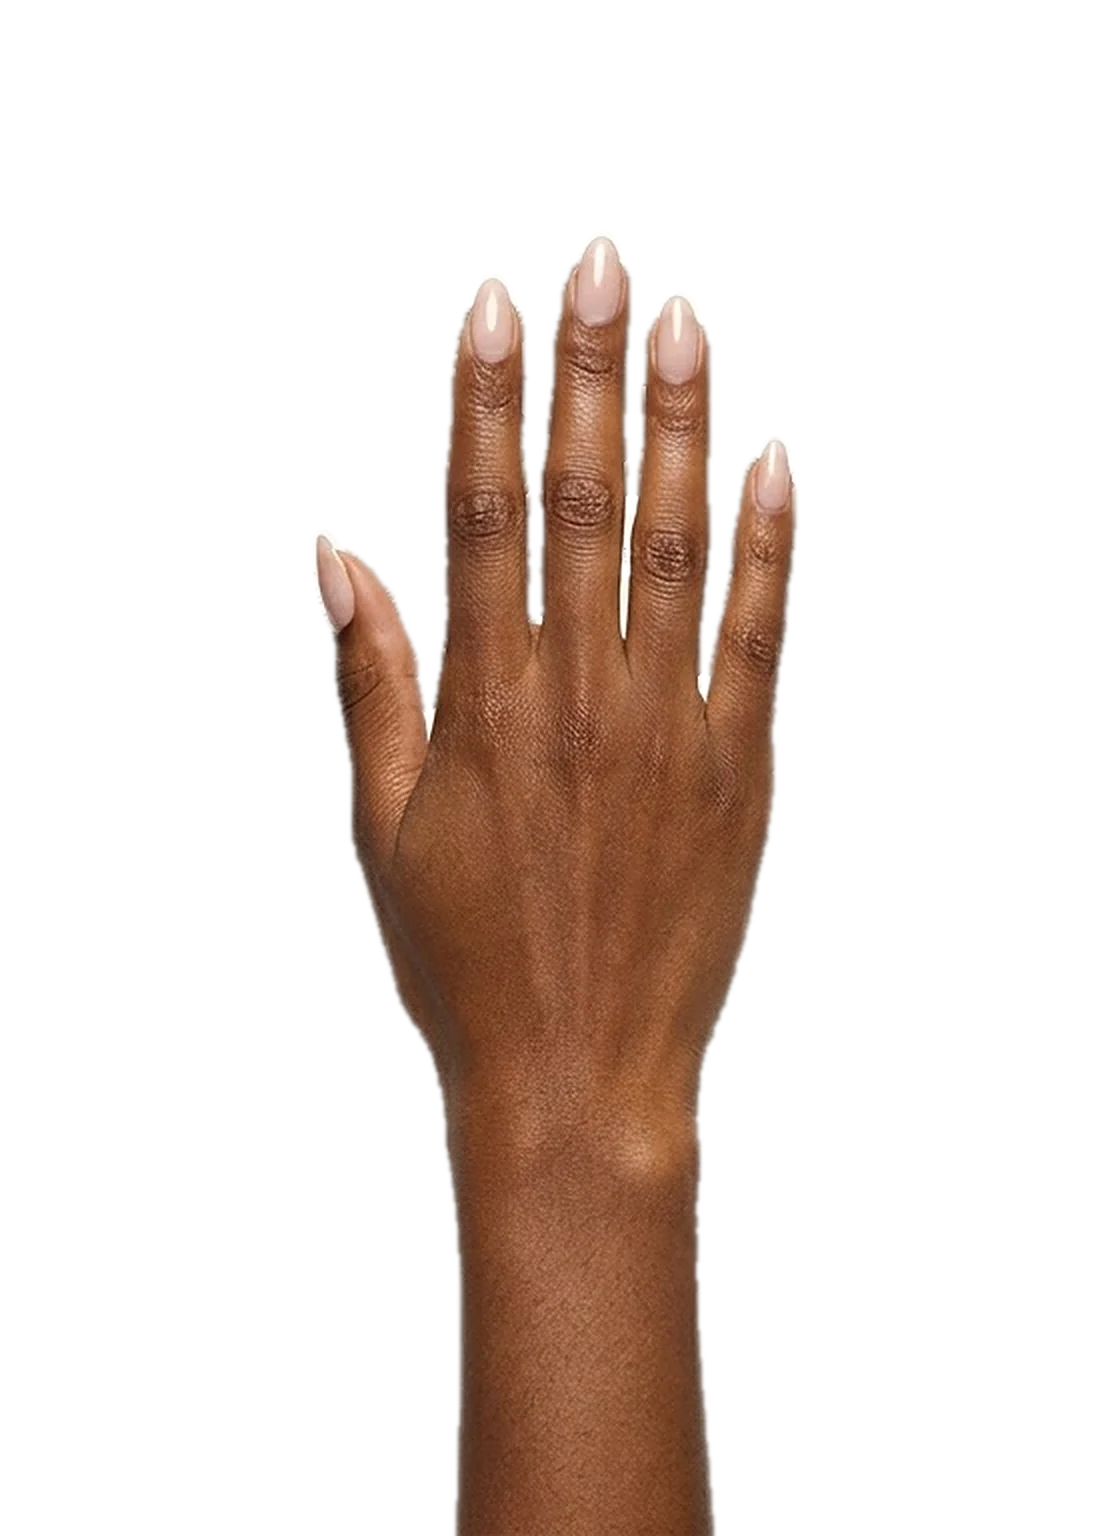
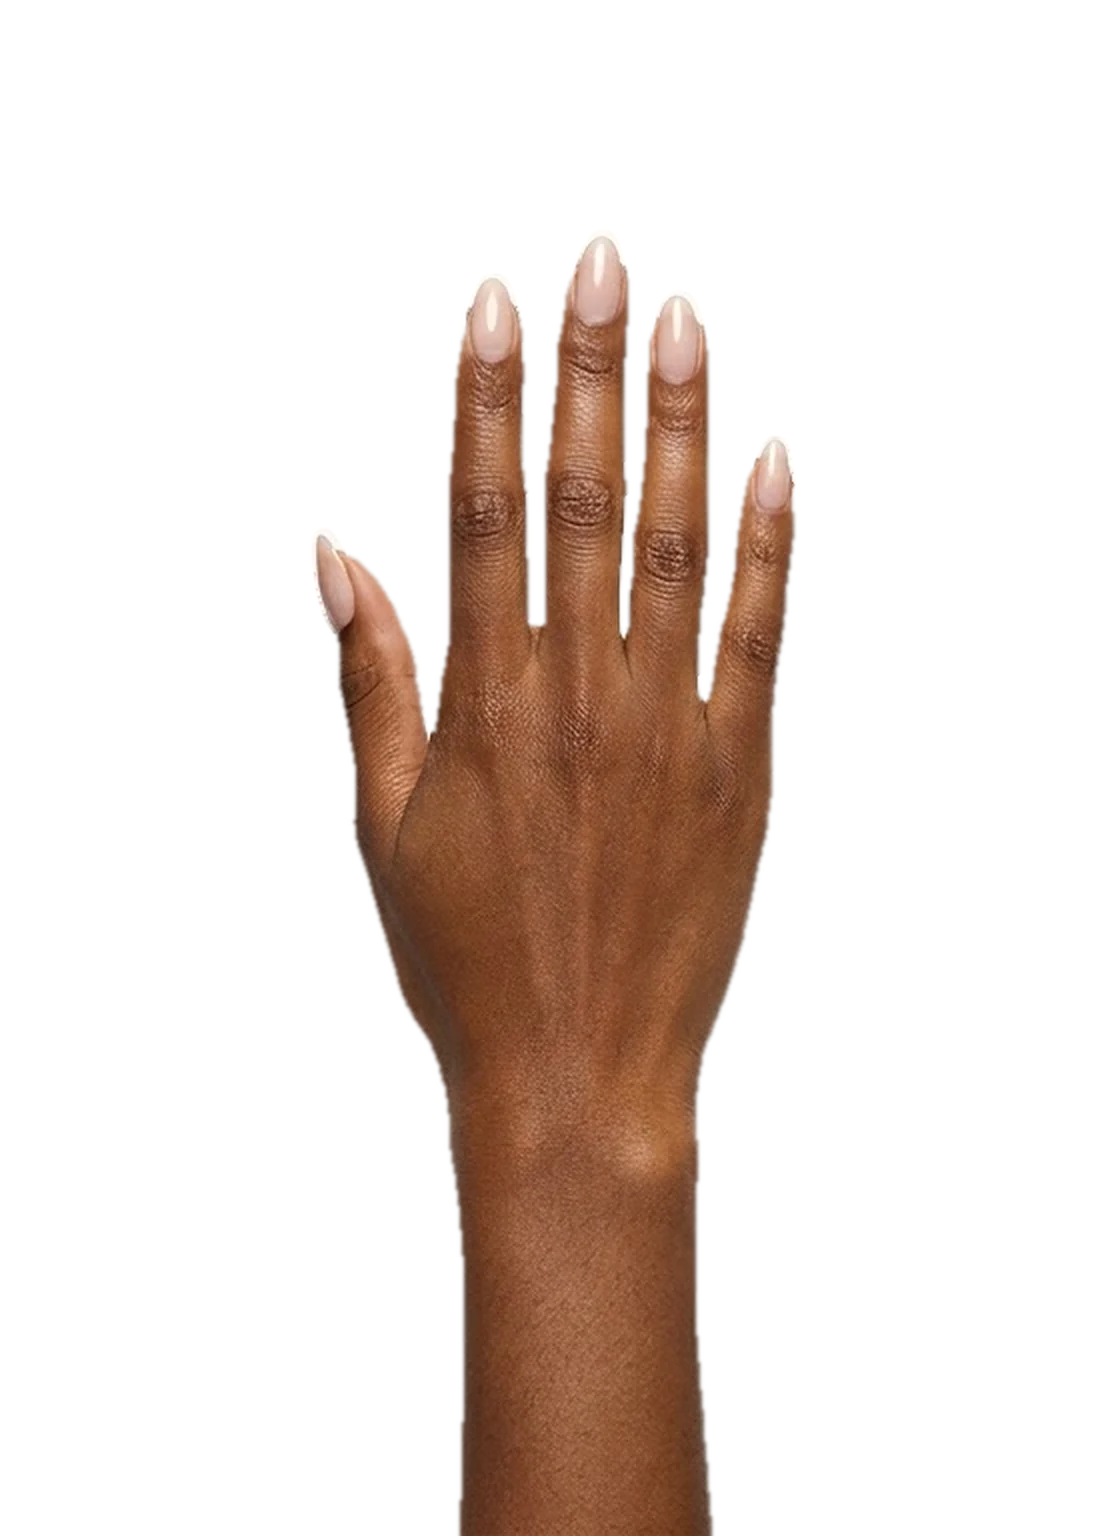
Lumi: remove backdrop patches from hand cut-outs, fix pose race
Neutral/white pixels trapped between fingers, under the palm and along
edges are now cut away; nail tips stay solid; softer sharpening.

Claude-Session: https://claude.ai/code/session_01H2rzhhYLUB2xkwnTjQZj2c

diff --git a/demo/nail-salon/studio.js b/demo/nail-salon/studio.js
@@ -189,9 +189,12 @@ export async function createStudio(canvas, { base, layout }) {
   new IntersectionObserver(([e]) => { visible = e.isIntersecting; if (visible) kick(); }).observe(canvas);
   new ResizeObserver(resize).observe(canvas);
 
+  let req = 0;
   async function show(skin, i, dir = 1) {
-    const p = await pose(skin, i);
+    const my = ++req;
     st.skin = skin; st.pose = i;
+    const p = await pose(skin, i);
+    if (my !== req) return;   // a newer request won while this one was loading
     if (!st.slots[0]) { st.slots[0] = p; kick(); return; }
     if (st.animating) { st.slots = [st.slots[1], null]; }
     st.slots[1] = p; st.dir = dir; st.t0 = performance.now(); st.animating = true; kick();
